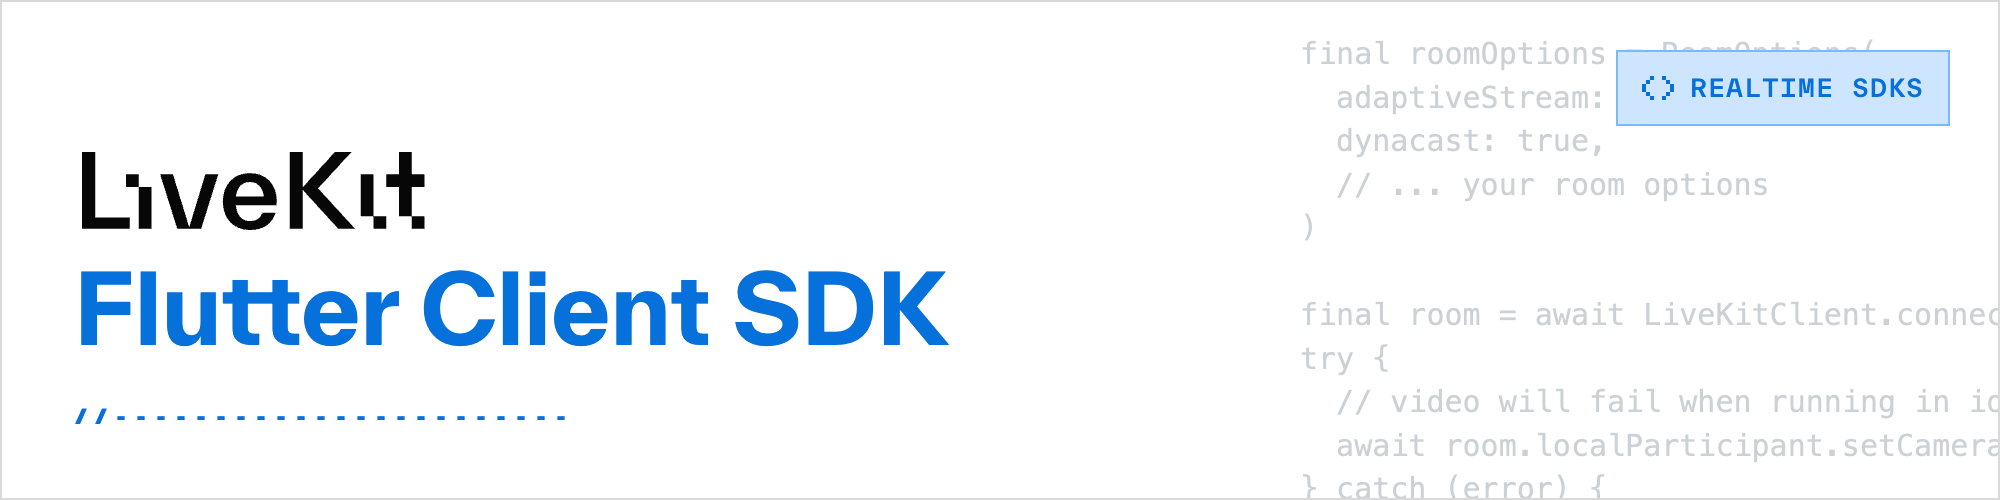
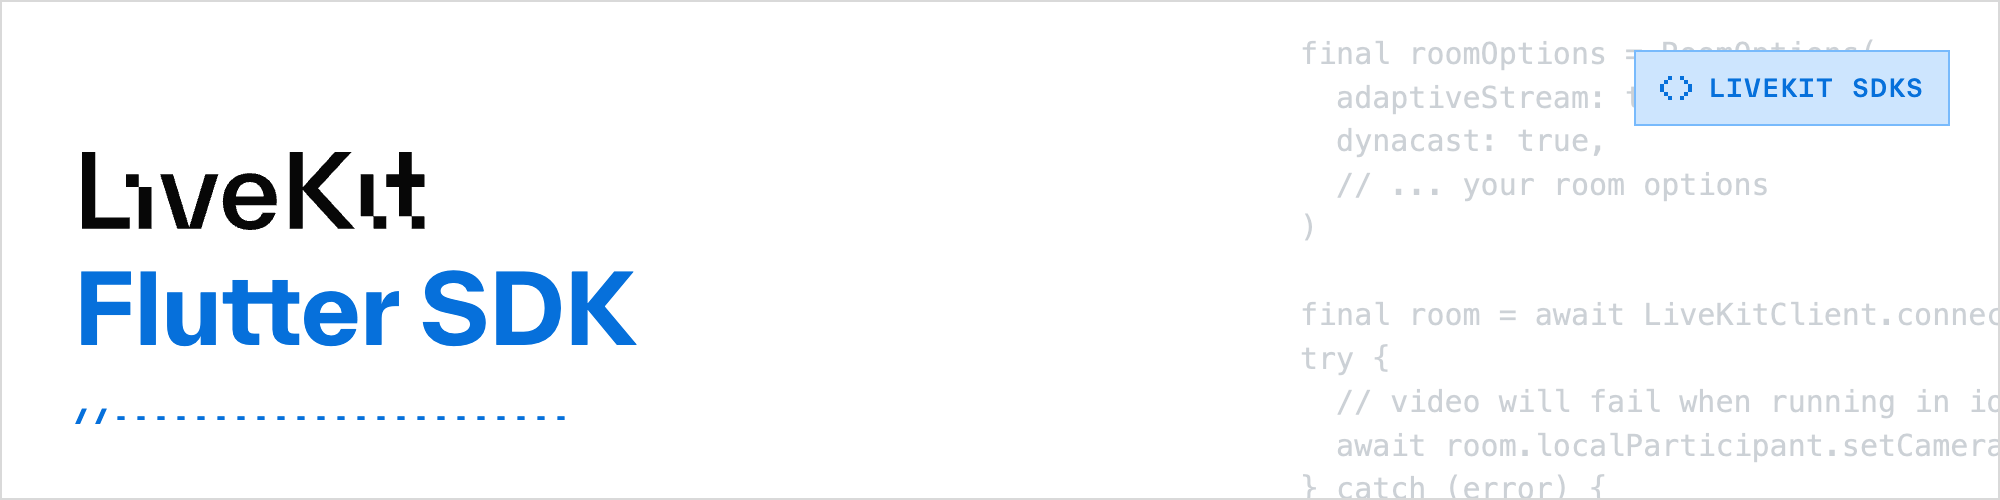
update readme

Changed region(s): [[0.186, 0.54, 0.496, 0.69], [0.806, 0.09, 0.93, 0.27]]

diff --git a/README.md b/README.md
@@ -13,9 +13,7 @@
 # LiveKit Flutter SDK
 
 <!--BEGIN_DESCRIPTION-->
-
 Use this SDK to add realtime video, audio and data features to your Flutter app. By connecting to <a href="https://livekit.io/">LiveKit</a> Cloud or a self-hosted server, you can quickly build applications such as multi-modal AI, live streaming, or video calls with just a few lines of code.
-
 <!--END_DESCRIPTION-->
 
 This package is published to pub.dev as [livekit_client](https://pub.dev/packages/livekit_client).
@@ -493,14 +491,13 @@ Apache License 2.0
 A huge thank you to [flutter-webrtc](https://github.com/flutter-webrtc/flutter-webrtc) for making it possible to use WebRTC in Flutter.
 
 <!--BEGIN_REPO_NAV-->
-
 <br/><table>
-
 <thead><tr><th colspan="2">LiveKit Ecosystem</th></tr></thead>
 <tbody>
-<tr><td>Realtime SDKs</td><td><a href="https://github.com/livekit/components-js">React Components</a> · <a href="https://github.com/livekit/client-sdk-js">Browser</a> · <a href="https://github.com/livekit/components-swift">Swift Components</a> · <a href="https://github.com/livekit/client-sdk-swift">iOS/macOS/visionOS</a> · <a href="https://github.com/livekit/client-sdk-android">Android</a> · <b>Flutter</b> · <a href="https://github.com/livekit/client-sdk-react-native">React Native</a> · <a href="https://github.com/livekit/rust-sdks">Rust</a> · <a href="https://github.com/livekit/node-sdks">Node.js</a> · <a href="https://github.com/livekit/python-sdks">Python</a> · <a href="https://github.com/livekit/client-sdk-unity-web">Unity (web)</a> · <a href="https://github.com/livekit/client-sdk-unity">Unity (beta)</a></td></tr><tr></tr>
-<tr><td>Server APIs</td><td><a href="https://github.com/livekit/node-sdks">Node.js</a> · <a href="https://github.com/livekit/server-sdk-go">Golang</a> · <a href="https://github.com/livekit/server-sdk-ruby">Ruby</a> · <a href="https://github.com/livekit/server-sdk-kotlin">Java/Kotlin</a> · <a href="https://github.com/livekit/python-sdks">Python</a> · <a href="https://github.com/livekit/rust-sdks">Rust</a> · <a href="https://github.com/agence104/livekit-server-sdk-php">PHP (community)</a></td></tr><tr></tr>
-<tr><td>Agents Frameworks</td><td><a href="https://github.com/livekit/agents">Python</a> · <a href="https://github.com/livekit/agent-playground">Playground</a></td></tr><tr></tr>
+<tr><td>LiveKit SDKs</td><td><a href="https://github.com/livekit/client-sdk-js">Browser</a> · <a href="https://github.com/livekit/client-sdk-swift">iOS/macOS/visionOS</a> · <a href="https://github.com/livekit/client-sdk-android">Android</a> · <b>Flutter</b> · <a href="https://github.com/livekit/client-sdk-react-native">React Native</a> · <a href="https://github.com/livekit/rust-sdks">Rust</a> · <a href="https://github.com/livekit/node-sdks">Node.js</a> · <a href="https://github.com/livekit/python-sdks">Python</a> · <a href="https://github.com/livekit/client-sdk-unity">Unity</a> · <a href="https://github.com/livekit/client-sdk-unity-web">Unity (WebGL)</a></td></tr><tr></tr>
+<tr><td>Server APIs</td><td><a href="https://github.com/livekit/node-sdks">Node.js</a> · <a href="https://github.com/livekit/server-sdk-go">Golang</a> · <a href="https://github.com/livekit/server-sdk-ruby">Ruby</a> · <a href="https://github.com/livekit/server-sdk-kotlin">Java/Kotlin</a> · <a href="https://github.com/livekit/python-sdks">Python</a> · <a href="https://github.com/livekit/rust-sdks">Rust</a> · <a href="https://github.com/agence104/livekit-server-sdk-php">PHP (community)</a> · <a href="https://github.com/pabloFuente/livekit-server-sdk-dotnet">.NET (community)</a></td></tr><tr></tr>
+<tr><td>UI Components</td><td><a href="https://github.com/livekit/components-js">React</a> · <a href="https://github.com/livekit/components-android">Android Compose</a> · <a href="https://github.com/livekit/components-swift">SwiftUI</a></td></tr><tr></tr>
+<tr><td>Agents Frameworks</td><td><a href="https://github.com/livekit/agents">Python</a> · <a href="https://github.com/livekit/agents-js">Node.js</a> · <a href="https://github.com/livekit/agent-playground">Playground</a></td></tr><tr></tr>
 <tr><td>Services</td><td><a href="https://github.com/livekit/livekit">LiveKit server</a> · <a href="https://github.com/livekit/egress">Egress</a> · <a href="https://github.com/livekit/ingress">Ingress</a> · <a href="https://github.com/livekit/sip">SIP</a></td></tr><tr></tr>
 <tr><td>Resources</td><td><a href="https://docs.livekit.io">Docs</a> · <a href="https://github.com/livekit-examples">Example apps</a> · <a href="https://livekit.io/cloud">Cloud</a> · <a href="https://docs.livekit.io/home/self-hosting/deployment">Self-hosting</a> · <a href="https://github.com/livekit/livekit-cli">CLI</a></td></tr>
 </tbody>
